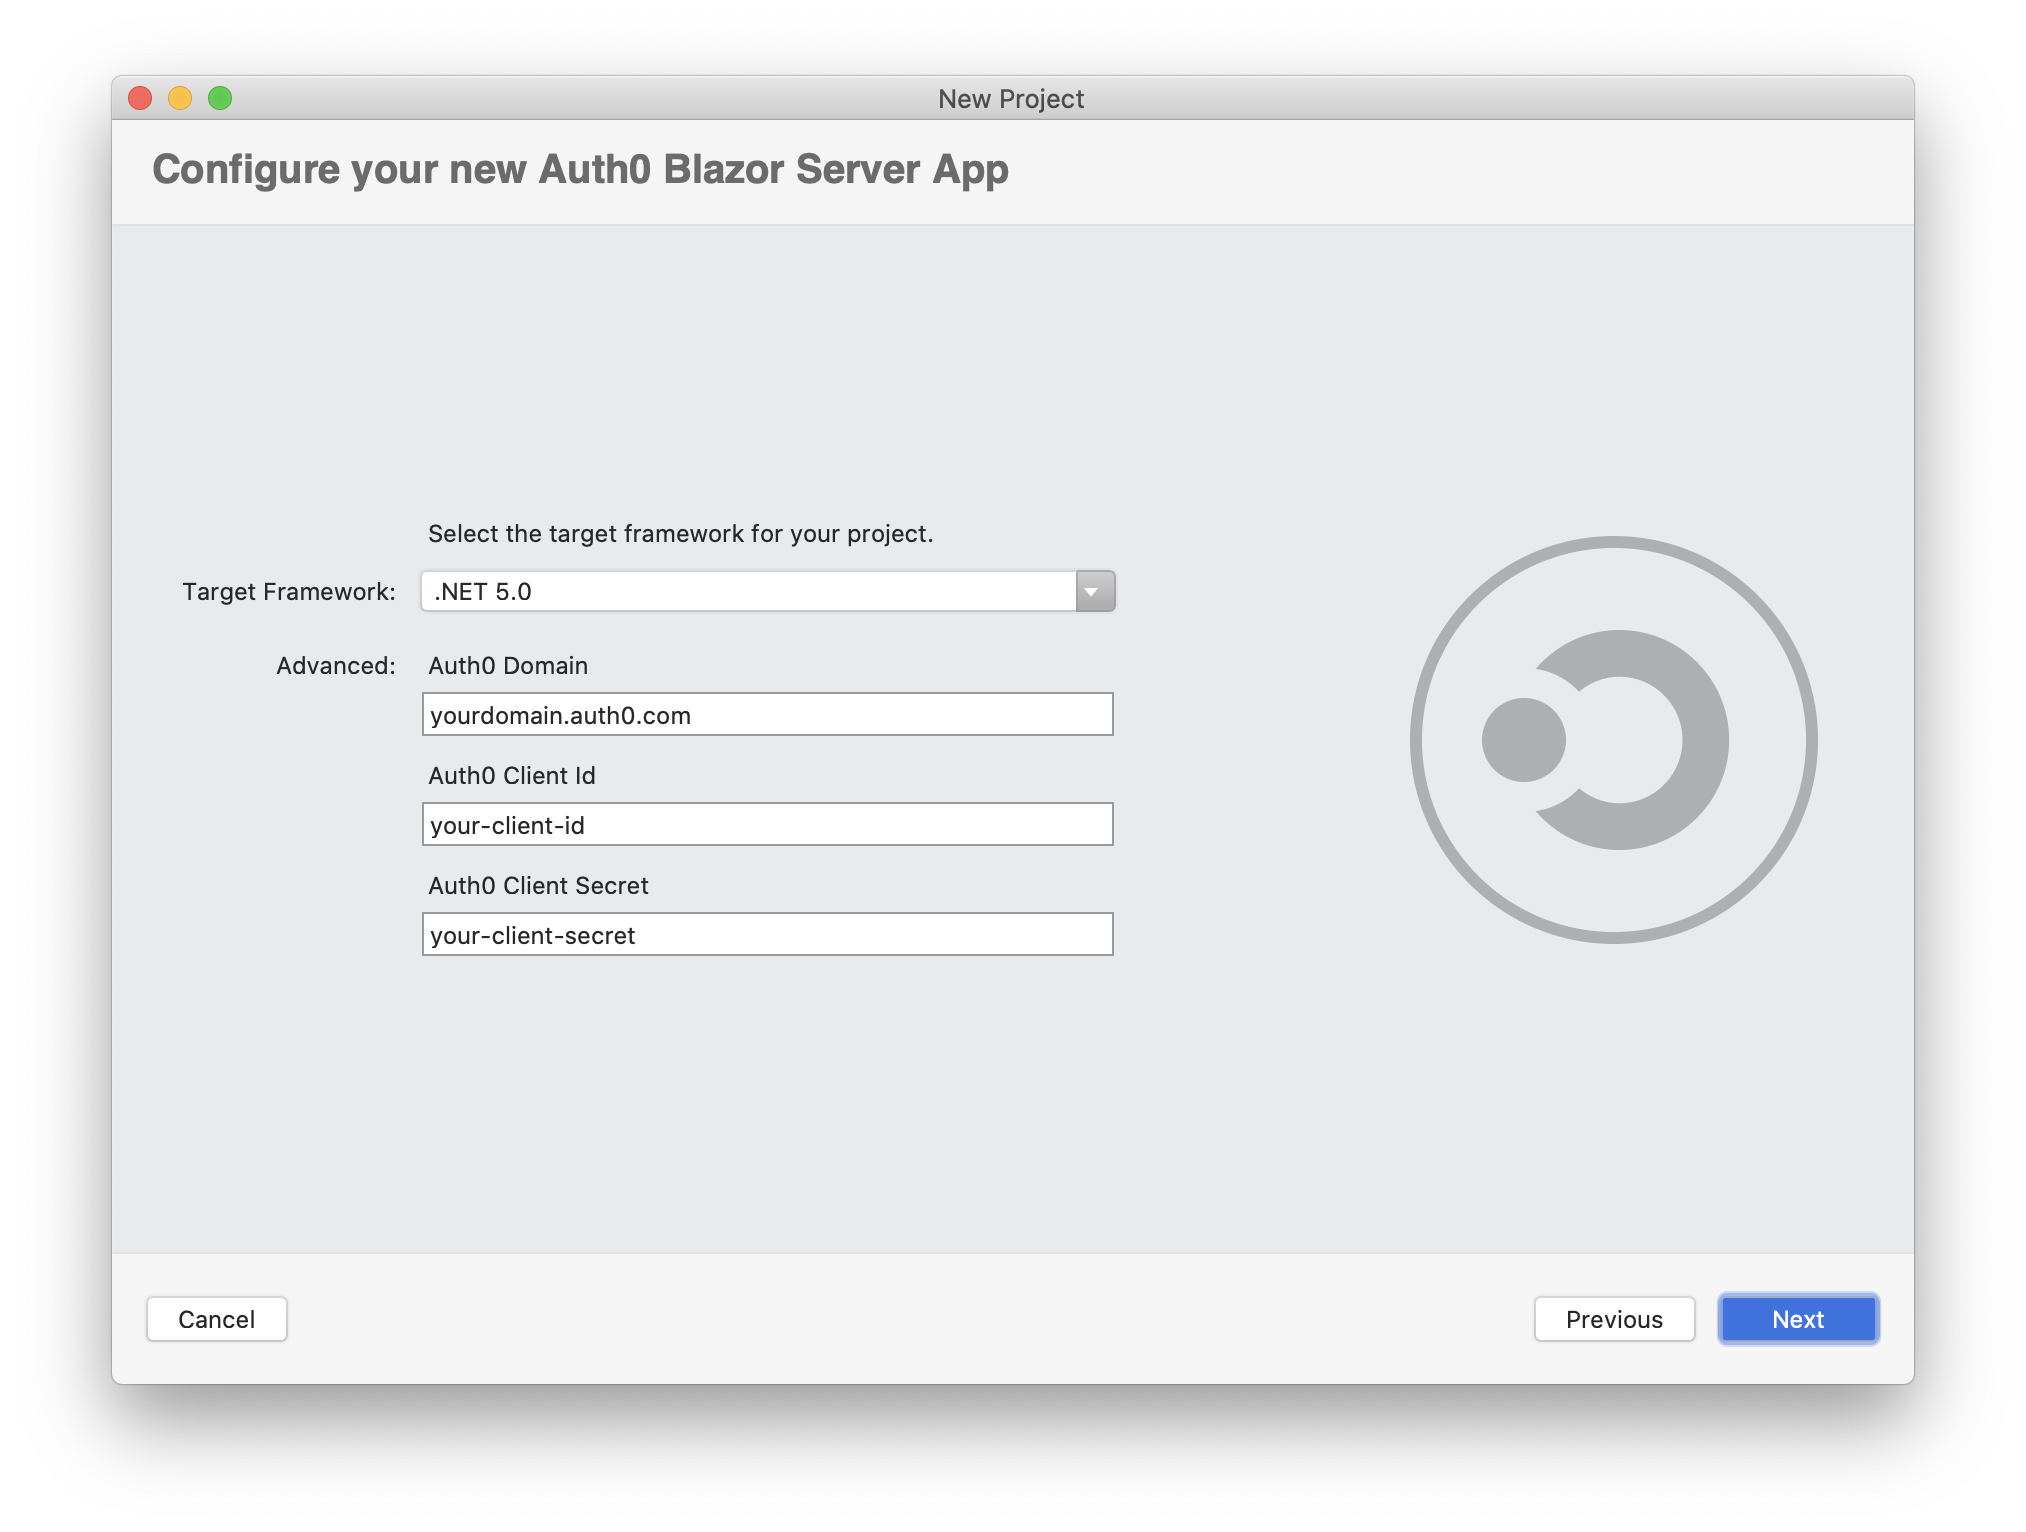
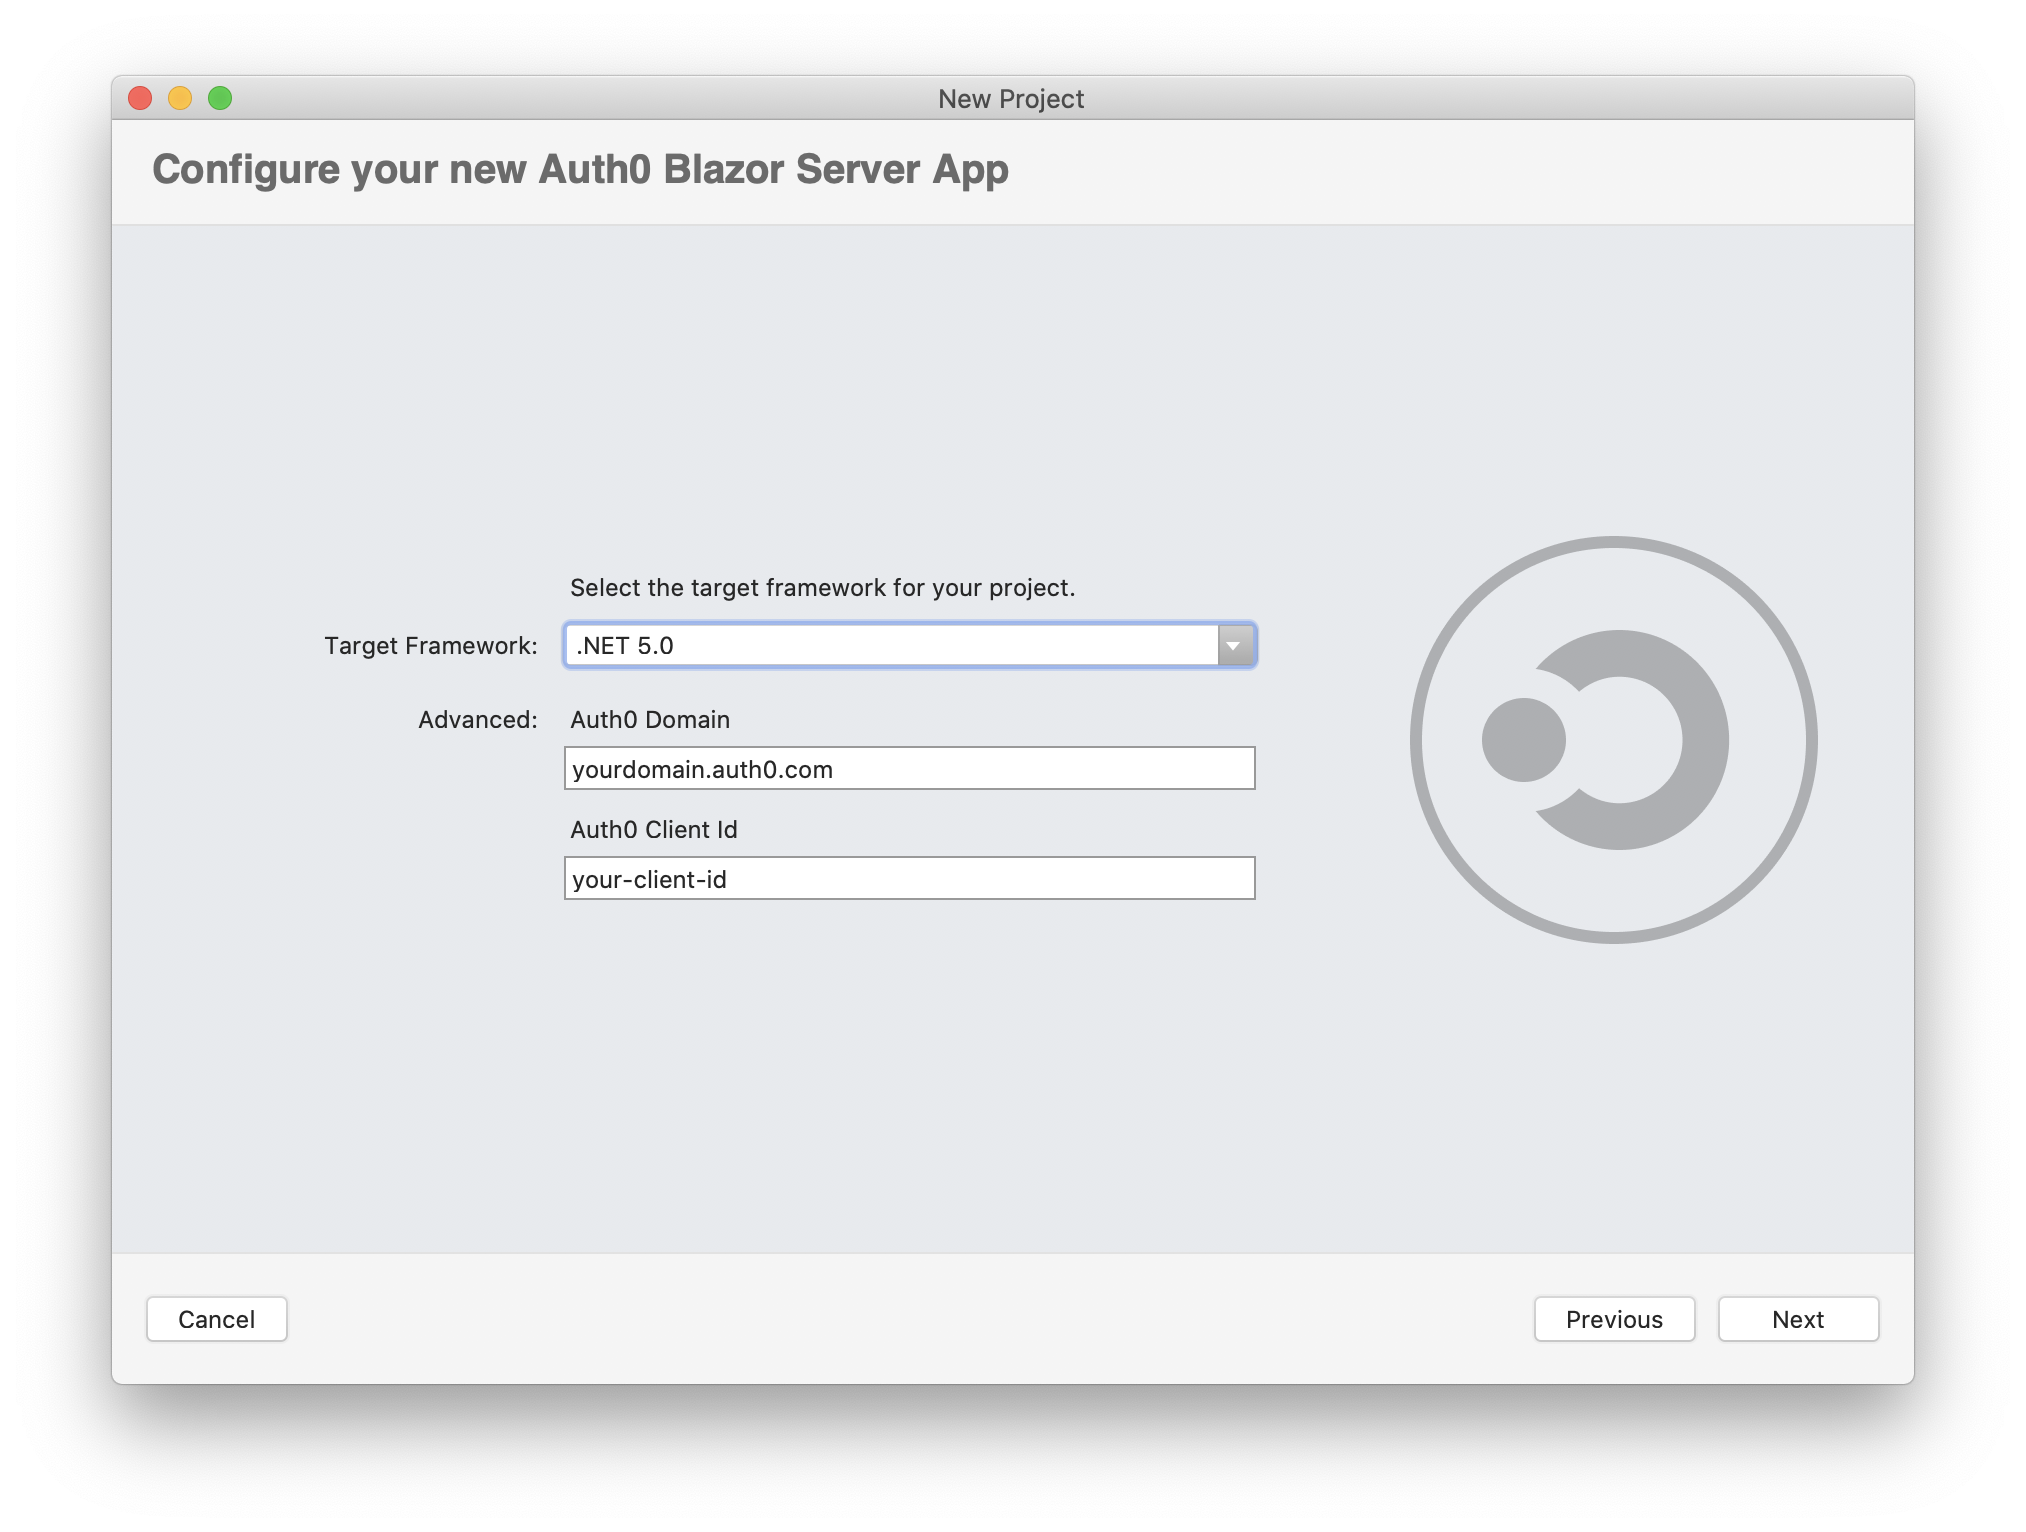
Applies ASP.NET MVC SDK to Blazor server template

Changed region(s): [[0.0933, 0.3375, 0.6219, 0.6136], [0.8396, 0.8283, 0.9329, 0.8897]]

diff --git a/templates/Auth0.BlazorServer/Startup.cs b/templates/Auth0.BlazorServer/Startup.cs
@@ -9,7 +9,7 @@ using Auth0.BlazorServer.Data;
 using Microsoft.AspNetCore.Http;
 using Microsoft.AspNetCore.Authentication.OpenIdConnect;
 using Microsoft.AspNetCore.Authentication.Cookies;
-using Auth0.BlazorServer.Authentication;
+using Auth0.AspNetCore.Mvc;
 
 namespace Auth0.BlazorServer
 {
@@ -36,19 +36,12 @@ namespace Auth0.BlazorServer
                 options.MinimumSameSitePolicy = SameSiteMode.None;
             });
 
-            services.AddAuthentication(options =>
+            services.AddAuth0WebAppAuthentication(options =>
             {
-                options.DefaultAuthenticateScheme = CookieAuthenticationDefaults.AuthenticationScheme;
-                options.DefaultSignInScheme = CookieAuthenticationDefaults.AuthenticationScheme;
-                options.DefaultChallengeScheme = CookieAuthenticationDefaults.AuthenticationScheme;
-            }).AddCookie()
-            .AddAuth0(options => {
                 options.Domain = Configuration["Auth0:Domain"];
                 options.ClientId = Configuration["Auth0:ClientId"];
-                options.ClientSecret = Configuration["Auth0:ClientSecret"];
             });
 
-            //services.AddHttpContextAccessor();
             services.AddSingleton<WeatherForecastService>();
         }
 

diff --git a/templates/Auth0.BlazorServer/Pages/Logout.cshtml.cs b/templates/Auth0.BlazorServer/Pages/Logout.cshtml.cs
@@ -2,6 +2,7 @@ using System.Threading.Tasks;
 using Microsoft.AspNetCore.Authentication;
 using Microsoft.AspNetCore.Authentication.Cookies;
 using Microsoft.AspNetCore.Mvc.RazorPages;
+using Auth0.AspNetCore.Mvc;
 
 namespace Auth0.BlazorServer.Pages
 {
@@ -9,7 +10,14 @@ namespace Auth0.BlazorServer.Pages
     {
         public async Task OnGet()
         {
-            await HttpContext.SignOutAsync("Auth0", new AuthenticationProperties { RedirectUri = "/" });
+            var authenticationProperties = new LogoutAuthenticationPropertiesBuilder()
+                // Indicate here where Auth0 should redirect the user after a logout.
+                // Note that the resulting absolute Uri must be added in the
+                // **Allowed Logout URLs** settings for the client.
+                .WithRedirectUri("/")
+                .Build();
+
+            await HttpContext.SignOutAsync(Auth0Constants.AuthenticationScheme, authenticationProperties);
             await HttpContext.SignOutAsync(CookieAuthenticationDefaults.AuthenticationScheme);
         }
     }

diff --git a/templates/Auth0.BlazorServer/Pages/Login.cshtml.cs b/templates/Auth0.BlazorServer/Pages/Login.cshtml.cs
@@ -1,6 +1,7 @@
 using System.Threading.Tasks;
 using Microsoft.AspNetCore.Authentication;
 using Microsoft.AspNetCore.Mvc.RazorPages;
+using Auth0.AspNetCore.Mvc;
 
 namespace Auth0.BlazorServer.Pages
 {
@@ -8,10 +9,11 @@ namespace Auth0.BlazorServer.Pages
     {
         public async Task OnGet(string redirectUri)
         {
-            await HttpContext.ChallengeAsync("Auth0", new AuthenticationProperties
-            {
-                RedirectUri = redirectUri
-            });
+            var authenticationProperties = new LoginAuthenticationPropertiesBuilder()
+                .WithRedirectUri(redirectUri)
+                .Build();
+
+            await HttpContext.ChallengeAsync(Auth0Constants.AuthenticationScheme, authenticationProperties);
         }
     }
 }

diff --git a/README.md b/README.md
@@ -143,8 +143,6 @@ This will create a new Blazor Server application in the current folder. The foll
   The Auth0 domain associated with your tenant. The default value is `yourdomain.auth0.com`.
 - `--client-id`<br>
   The client id associated with your application. The default value is `your-client-id`.
-- `--client-secret`<br>
-  The secret associated with your application. The default value is `your-client-secret`.
 - `-f` or `--framework`<br>
   Defines the target framework to use for the .NET project. The possible values are `netcoreapp3.1` and `net5.0`. The default value is `net5.0`.
 
